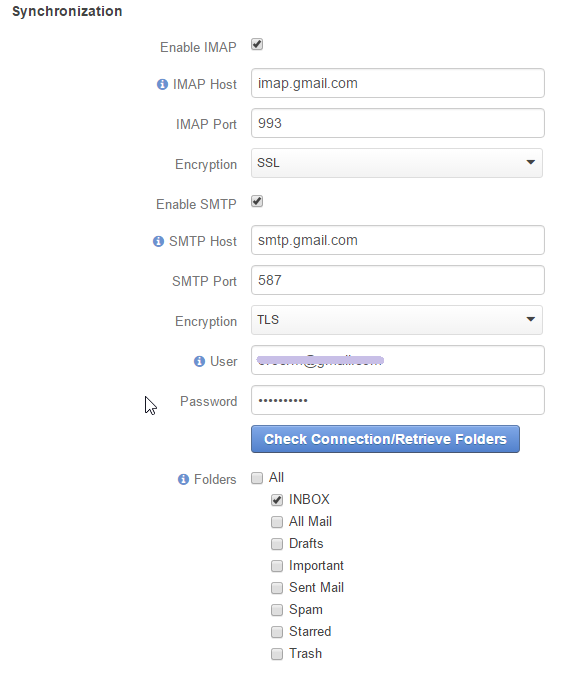
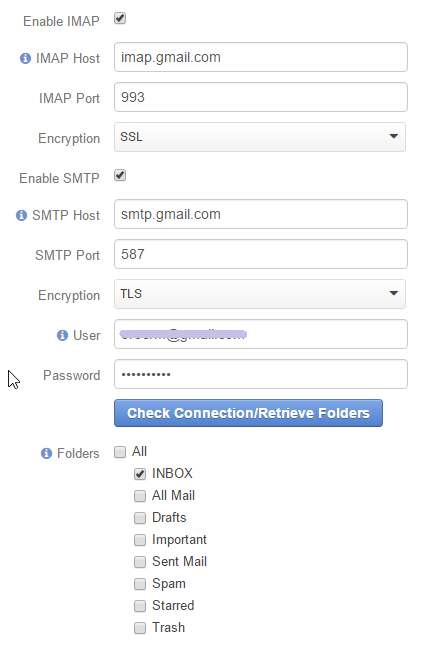
Email Synchronization section updated to correspond the OroCRM 1.8

diff --git a/user_guide/user_management_users.rst b/user_guide/user_management_users.rst
@@ -80,14 +80,29 @@ to an organization/business unit.
 
 Email synchronization settings
 ^^^^^^^^^^^^^^^^^^^^^^^^^^^^^^
-With the "Email synchronization settings" you can enable the uploading of sales-related emails from the defined mailbox 
-to your OroCRM account.
-Once you've defined the mailbox details, OroCRm will collect any letter on the server such that one of 
-its from/to fields is an email address assigned to any contact and the other one is an email address assigned to any 
-user in the OroCRM instance.
 
-You can then :ref:`see this emails <user-guide-activities-emails-view>` in the activities of the contact, activities of
-the user and in My Emails.
+Use the section to synchronize emails between mailbox of the user and OroCRM. 
+
+- Let OroCRM know the details (such as host, port, and encryption) of IMAP to upload the incoming mail to OroCRM 
+- Define the SMTP details (such as host, port, and encryption) to synchronize the outgoing mail from OroCRM to the 
+  mailbox
+- Specify the login (user) and password used to access the mailbox
+- Click the :guilabel:`Check Connection/Retrieve Folders` 
+- After successful connection, the list of available folders will be loaded. Check the Folders to be synchronized.
+
+In the example below, synchronization has been done for a .gmail mailbox. The INBOX folder will be synchronized.
+
+
+.. hint::
+
+    Detailed instructions on the way to set-up IMAP and SMTP connection in gmail, are provided 
+    `here <https://support.google.com/mail/troubleshooter/1668960?hl=en&rd=1#ts=1665018%2C1665144>`_
+
+    To enable connection, check the box next to
+    `Allow access for less secure apps box <https://support.google.com/accounts/answer/6010255?hl=en>`_
+
+
+.. image:: ./img/system_mailbox/synchronize_mb.png 
 
 
 View and Manage a User Record
